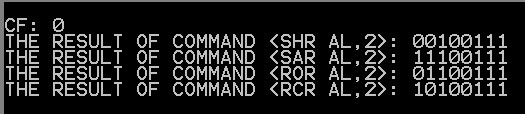
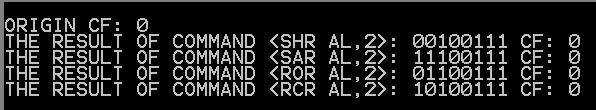
Site update at 2020-04-21 11:55:02

Changed region(s): [[0.0, 0.1364, 0.9752, 0.9]]

diff --git a/2020/04/20/Shift-Commands/index.html b/2020/04/20/Shift-Commands/index.html
@@ -243,13 +243,13 @@
 <p>图示如下：<br><img src="http://c.biancheng.net/uploads/allimg/190509/4-1Z5091I944551.gif" alt="RCL" title="RCL"><br><strong>带进位的循环右移指令</strong><code>RCR</code>，aka. <em>Rotate Right Through Carry</em>，目的操作数所有数位向右移动，最低位移入<code>CF</code>标志位，而原<code>CF</code>标志位中的数值移到最高位。如果将进位标志位看作目的操作数的最低位，那么<code>RCR</code>实质上相当于<code>ROR</code>指令。比如：</p>
 <figure class="highlight plain"><table><tr><td class="gutter"><pre><span class="line">1</span><br><span class="line">2</span><br><span class="line">3</span><br><span class="line">4</span><br></pre></td><td class="code"><pre><span class="line">MOV AL,91H	; AL&#x3D;10010001B, CF&#x3D;0</span><br><span class="line">MOV CL,1	; CL&#x3D;1</span><br><span class="line">RCL AL,CL	; AL&#x3D;01001000B, CF&#x3D;1</span><br><span class="line">RCL AL,CL	; AL&#x3D;10100100B, CF&#x3D;0</span><br></pre></td></tr></table></figure>
 <p>图示如下：<br><img src="http://c.biancheng.net/uploads/allimg/190509/4-1Z5091J2203T.gif" alt="RCR" title="RCR"></p>
-<h2 id="一个例子"><a href="#一个例子" class="headerlink" title="一个例子"></a>一个例子</h2><p>为了方便比较节省时间，只使用<code>SHR</code>、<code>SAR</code>、<code>ROR</code>和<code>RCR</code>指令将十六进制数<code>9DH</code>向右移动两位(左移同理<sup id="fnref:2"><a href="#fn:2" rel="footnote">2</a></sup>)，并利用<a href="https://callmemengmeng.github.io/2020/04/11/%E5%AD%97%E9%95%BF%E6%95%B0%E6%8D%AE%E7%9A%84%E4%BA%8C%E5%85%AB%E8%BF%9B%E5%88%B6%E8%BD%AC%E6%8D%A2%E4%B8%8E%E8%BE%93%E5%87%BA/">前文</a>提到的各位输出方法，将结果显示在屏幕上。</p>
+<h2 id="一个例子"><a href="#一个例子" class="headerlink" title="一个例子"></a>一个例子</h2><p>为了方便比较节省时间，只使用<code>SHR</code>、<code>SAR</code>、<code>ROR</code>和<code>RCR</code>指令将十六进制数<code>9DH</code>向右移动两位(左移同理<sup id="fnref:2"><a href="#fn:2" rel="footnote">2</a></sup>)，使用<code>LAHF</code>指令将标志位寄存器的低8位存入<code>AH</code>中，并利用<a href="https://callmemengmeng.github.io/2020/04/11/%E5%AD%97%E9%95%BF%E6%95%B0%E6%8D%AE%E7%9A%84%E4%BA%8C%E5%85%AB%E8%BF%9B%E5%88%B6%E8%BD%AC%E6%8D%A2%E4%B8%8E%E8%BE%93%E5%87%BA/">前文</a>提到的各位输出方法，将结果(<code>AL</code>和<code>CF</code>的值)显示在屏幕上。</p>
 <h3 id="移位分析"><a href="#移位分析" class="headerlink" title="移位分析"></a>移位分析</h3><figure class="highlight plain"><table><tr><td class="gutter"><pre><span class="line">1</span><br><span class="line">2</span><br><span class="line">3</span><br><span class="line">4</span><br><span class="line">5</span><br></pre></td><td class="code"><pre><span class="line">MOV AL,9DH	; AL &#x3D;  10011101B, CF&#x3D;0 </span><br><span class="line">SHR AL,2	; AL -&gt; 01001110B, CF&#x3D;1 -&gt; 00100111B, CF&#x3D;0</span><br><span class="line">SAR AL,2	; AL -&gt; 11001110B, CF&#x3D;1 -&gt; 11100111B, CF&#x3D;0</span><br><span class="line">ROR AL,2	; AL -&gt; 11001110B, CF&#x3D;1 -&gt; 01100111B, CF&#x3D;0</span><br><span class="line">RCR AL,2	; AL -&gt; 01001110B, CF&#x3D;1 -&gt; 10100111B, CF&#x3D;0</span><br></pre></td></tr></table></figure>
 
-<h3 id="运行结果"><a href="#运行结果" class="headerlink" title="运行结果"></a>运行结果</h3><p><code>9DH</code>=<code>10011101B</code>，分别使用<code>SHR</code>、<code>SAR</code>、<code>ROR</code>和<code>RCR</code>指令移动两位后，结果如下：<br><img src="/2020/04/20/Shift-Commands/RESULTS.jpg" alt="RESULTS" title="Results"></p>
+<h3 id="运行结果"><a href="#运行结果" class="headerlink" title="运行结果"></a>运行结果</h3><p><code>9DH</code>=<code>10011101B</code>，分别使用<code>SHR</code>、<code>SAR</code>、<code>ROR</code>和<code>RCR</code>指令移动两位后，结果如下：<br><img src="/2020/04/20/Shift-Commands/RESULTS.JPG" alt="RESULTS" title="Results"></p>
 <h3 id="代码"><a href="#代码" class="headerlink" title="代码"></a>代码</h3><details>
 <summary>点击查看代码</summary>
-<figure class="highlight plain"><table><tr><td class="gutter"><pre><span class="line">1</span><br><span class="line">2</span><br><span class="line">3</span><br><span class="line">4</span><br><span class="line">5</span><br><span class="line">6</span><br><span class="line">7</span><br><span class="line">8</span><br><span class="line">9</span><br><span class="line">10</span><br><span class="line">11</span><br><span class="line">12</span><br><span class="line">13</span><br><span class="line">14</span><br><span class="line">15</span><br><span class="line">16</span><br><span class="line">17</span><br><span class="line">18</span><br><span class="line">19</span><br><span class="line">20</span><br><span class="line">21</span><br><span class="line">22</span><br><span class="line">23</span><br><span class="line">24</span><br><span class="line">25</span><br><span class="line">26</span><br><span class="line">27</span><br><span class="line">28</span><br><span class="line">29</span><br><span class="line">30</span><br><span class="line">31</span><br><span class="line">32</span><br><span class="line">33</span><br><span class="line">34</span><br><span class="line">35</span><br><span class="line">36</span><br><span class="line">37</span><br><span class="line">38</span><br><span class="line">39</span><br><span class="line">40</span><br><span class="line">41</span><br><span class="line">42</span><br><span class="line">43</span><br><span class="line">44</span><br><span class="line">45</span><br><span class="line">46</span><br><span class="line">47</span><br><span class="line">48</span><br><span class="line">49</span><br><span class="line">50</span><br><span class="line">51</span><br><span class="line">52</span><br><span class="line">53</span><br><span class="line">54</span><br><span class="line">55</span><br><span class="line">56</span><br><span class="line">57</span><br><span class="line">58</span><br><span class="line">59</span><br><span class="line">60</span><br><span class="line">61</span><br><span class="line">62</span><br><span class="line">63</span><br><span class="line">64</span><br><span class="line">65</span><br><span class="line">66</span><br><span class="line">67</span><br><span class="line">68</span><br><span class="line">69</span><br><span class="line">70</span><br><span class="line">71</span><br><span class="line">72</span><br><span class="line">73</span><br><span class="line">74</span><br><span class="line">75</span><br><span class="line">76</span><br><span class="line">77</span><br><span class="line">78</span><br><span class="line">79</span><br><span class="line">80</span><br><span class="line">81</span><br><span class="line">82</span><br><span class="line">83</span><br><span class="line">84</span><br><span class="line">85</span><br><span class="line">86</span><br><span class="line">87</span><br><span class="line">88</span><br><span class="line">89</span><br><span class="line">90</span><br><span class="line">91</span><br><span class="line">92</span><br><span class="line">93</span><br><span class="line">94</span><br><span class="line">95</span><br><span class="line">96</span><br><span class="line">97</span><br><span class="line">98</span><br><span class="line">99</span><br><span class="line">100</span><br><span class="line">101</span><br></pre></td><td class="code"><pre><span class="line">DATA SEGMENT</span><br><span class="line">    BUFF DB 4 DUP(0)        </span><br><span class="line">    NUMB DB 9DH   </span><br><span class="line">    MES0 DB 0DH,0AH,&#39;THE RESULT OF COMMAND &lt;SHR AL,2&gt;: $&#39;</span><br><span class="line">    MES1 DB 0DH,0AH,&#39;THE RESULT OF COMMAND &lt;SAR AL,2&gt;: $&#39;</span><br><span class="line">    MES2 DB 0DH,0AH,&#39;THE RESULT OF COMMAND &lt;ROR AL,2&gt;: $&#39;</span><br><span class="line">    MES3 DB 0DH,0AH,&#39;THE RESULT OF COMMAND &lt;RCR AL,2&gt;: $&#39;   </span><br><span class="line">    MES4 DB 0DH,0AH,&#39;CF: 0 $&#39;</span><br><span class="line">DATA ENDS      </span><br><span class="line"></span><br><span class="line">STACK SEGMENT PARA STACK &#39;STACK&#39;</span><br><span class="line">    DB 10 DUP(0)</span><br><span class="line">STACK ENDS</span><br><span class="line"></span><br><span class="line">CODE SEGMENT</span><br><span class="line">    ASSUME CS:CODE,DS:DATA</span><br><span class="line">START:</span><br><span class="line">    MOV AX,DATA</span><br><span class="line">    MOV DS,AX</span><br><span class="line">    LEA SI,BUFF </span><br><span class="line">    MOV CL,2        ; SHIFT&#x2F;ROTATE 9DH 2 BITS TO RIGHT</span><br><span class="line">    MOV AL,NUMB   </span><br><span class="line">    </span><br><span class="line">    PUSH AX</span><br><span class="line">    PUSH AX</span><br><span class="line">    PUSH AX </span><br><span class="line">    PUSH AX</span><br><span class="line">           </span><br><span class="line">    POP AX </span><br><span class="line">    SHR AL,CL      ; THE RESULT OF &#39;SHR&#39;</span><br><span class="line">    MOV [SI],AL</span><br><span class="line">    INC SI</span><br><span class="line">    </span><br><span class="line">    POP AX</span><br><span class="line">    SAR AL,CL     ; THE RESULT OF &#39;SAR&#39;</span><br><span class="line">    MOV [SI],AL  </span><br><span class="line">    INC SI     </span><br><span class="line"></span><br><span class="line">    POP AX</span><br><span class="line">    ROR AL,CL     ; THE RESULT OF &#39;ROR&#39;                 </span><br><span class="line">    MOV [SI],AL  </span><br><span class="line">    INC SI </span><br><span class="line">    </span><br><span class="line">    POP AX</span><br><span class="line">    RCR AL,CL     ; THE RESULT OF &#39;RCR&#39;</span><br><span class="line">    MOV [SI],AL  </span><br><span class="line">  </span><br><span class="line">NEXT:</span><br><span class="line">    LEA SI,BUFF   ; CALL THE &#39;DISP&#39; SUBROUTINE TO DISPLAY EVERY BIT OF [SI]</span><br><span class="line">    </span><br><span class="line">    MOV AH,09H</span><br><span class="line">    MOV DX,OFFSET MES4</span><br><span class="line">    INT 21H</span><br><span class="line">    </span><br><span class="line">    MOV AH,09H</span><br><span class="line">    MOV DX,OFFSET MES0</span><br><span class="line">    INT 21H</span><br><span class="line">    CALL DISP </span><br><span class="line">    INC SI</span><br><span class="line">  </span><br><span class="line">    MOV AH,09H</span><br><span class="line">    MOV DX,OFFSET MES1</span><br><span class="line">    INT 21H  </span><br><span class="line">    CALL DISP</span><br><span class="line">    INC SI</span><br><span class="line"></span><br><span class="line">    MOV AH,09H </span><br><span class="line">    MOV DX,OFFSET MES2</span><br><span class="line">    INT 21H</span><br><span class="line">    CALL DISP </span><br><span class="line">    INC SI   </span><br><span class="line">    </span><br><span class="line">    MOV AH,09H</span><br><span class="line">    MOV DX,OFFSET MES3</span><br><span class="line">    INT 21H</span><br><span class="line">    CALL DISP       </span><br><span class="line">    </span><br><span class="line">QUIT:</span><br><span class="line">    MOV AH,4CH</span><br><span class="line">    INT 21H</span><br><span class="line">           </span><br><span class="line">DISP PROC NEAR  </span><br><span class="line">    MOV DH,[SI] </span><br><span class="line">    MOV CX,08H</span><br><span class="line">    MOV AH,02H</span><br><span class="line">AGAIN: </span><br><span class="line">    MOV DL,DH</span><br><span class="line">    AND DL,80H </span><br><span class="line">    PUSH CX </span><br><span class="line">    MOV CL,07H</span><br><span class="line">    SHR DL,CL </span><br><span class="line">    ADD DL,30H </span><br><span class="line">    POP CX</span><br><span class="line">    INT 21H </span><br><span class="line">    SHL DH,1</span><br><span class="line">    LOOP AGAIN</span><br><span class="line">    RET</span><br><span class="line">DISP ENDP</span><br><span class="line">    </span><br><span class="line">CODE ENDS</span><br><span class="line">    END START</span><br></pre></td></tr></table></figure>
+<figure class="highlight plain"><table><tr><td class="gutter"><pre><span class="line">1</span><br><span class="line">2</span><br><span class="line">3</span><br><span class="line">4</span><br><span class="line">5</span><br><span class="line">6</span><br><span class="line">7</span><br><span class="line">8</span><br><span class="line">9</span><br><span class="line">10</span><br><span class="line">11</span><br><span class="line">12</span><br><span class="line">13</span><br><span class="line">14</span><br><span class="line">15</span><br><span class="line">16</span><br><span class="line">17</span><br><span class="line">18</span><br><span class="line">19</span><br><span class="line">20</span><br><span class="line">21</span><br><span class="line">22</span><br><span class="line">23</span><br><span class="line">24</span><br><span class="line">25</span><br><span class="line">26</span><br><span class="line">27</span><br><span class="line">28</span><br><span class="line">29</span><br><span class="line">30</span><br><span class="line">31</span><br><span class="line">32</span><br><span class="line">33</span><br><span class="line">34</span><br><span class="line">35</span><br><span class="line">36</span><br><span class="line">37</span><br><span class="line">38</span><br><span class="line">39</span><br><span class="line">40</span><br><span class="line">41</span><br><span class="line">42</span><br><span class="line">43</span><br><span class="line">44</span><br><span class="line">45</span><br><span class="line">46</span><br><span class="line">47</span><br><span class="line">48</span><br><span class="line">49</span><br><span class="line">50</span><br><span class="line">51</span><br><span class="line">52</span><br><span class="line">53</span><br><span class="line">54</span><br><span class="line">55</span><br><span class="line">56</span><br><span class="line">57</span><br><span class="line">58</span><br><span class="line">59</span><br><span class="line">60</span><br><span class="line">61</span><br><span class="line">62</span><br><span class="line">63</span><br><span class="line">64</span><br><span class="line">65</span><br><span class="line">66</span><br><span class="line">67</span><br><span class="line">68</span><br><span class="line">69</span><br><span class="line">70</span><br><span class="line">71</span><br><span class="line">72</span><br><span class="line">73</span><br><span class="line">74</span><br><span class="line">75</span><br><span class="line">76</span><br><span class="line">77</span><br><span class="line">78</span><br><span class="line">79</span><br><span class="line">80</span><br><span class="line">81</span><br><span class="line">82</span><br><span class="line">83</span><br><span class="line">84</span><br><span class="line">85</span><br><span class="line">86</span><br><span class="line">87</span><br><span class="line">88</span><br><span class="line">89</span><br><span class="line">90</span><br><span class="line">91</span><br><span class="line">92</span><br><span class="line">93</span><br><span class="line">94</span><br><span class="line">95</span><br><span class="line">96</span><br><span class="line">97</span><br><span class="line">98</span><br><span class="line">99</span><br><span class="line">100</span><br><span class="line">101</span><br><span class="line">102</span><br><span class="line">103</span><br><span class="line">104</span><br><span class="line">105</span><br><span class="line">106</span><br><span class="line">107</span><br><span class="line">108</span><br><span class="line">109</span><br><span class="line">110</span><br><span class="line">111</span><br><span class="line">112</span><br><span class="line">113</span><br><span class="line">114</span><br><span class="line">115</span><br><span class="line">116</span><br><span class="line">117</span><br><span class="line">118</span><br><span class="line">119</span><br><span class="line">120</span><br><span class="line">121</span><br><span class="line">122</span><br><span class="line">123</span><br><span class="line">124</span><br><span class="line">125</span><br><span class="line">126</span><br><span class="line">127</span><br><span class="line">128</span><br><span class="line">129</span><br><span class="line">130</span><br><span class="line">131</span><br><span class="line">132</span><br><span class="line">133</span><br><span class="line">134</span><br><span class="line">135</span><br><span class="line">136</span><br></pre></td><td class="code"><pre><span class="line">DATA SEGMENT</span><br><span class="line">    BUFF DB 4 DUP(0)  </span><br><span class="line">    FLAG DB 4 DUP(1)      </span><br><span class="line">    NUMB DB 9DH   </span><br><span class="line">    MES0 DB 0DH,0AH,&#39;THE RESULT OF COMMAND &lt;SHR AL,2&gt;: $&#39;</span><br><span class="line">    MES1 DB 0DH,0AH,&#39;THE RESULT OF COMMAND &lt;SAR AL,2&gt;: $&#39;</span><br><span class="line">    MES2 DB 0DH,0AH,&#39;THE RESULT OF COMMAND &lt;ROR AL,2&gt;: $&#39;</span><br><span class="line">    MES3 DB 0DH,0AH,&#39;THE RESULT OF COMMAND &lt;RCR AL,2&gt;: $&#39;   </span><br><span class="line">    MES4 DB 0DH,0AH,&#39;ORIGIN CF: 0 $&#39;        </span><br><span class="line">    MES5 DB &#39; CF: $&#39;</span><br><span class="line">DATA ENDS      </span><br><span class="line"></span><br><span class="line">STACK SEGMENT PARA STACK &#39;STACK&#39;</span><br><span class="line">    DB 10 DUP(0)</span><br><span class="line">STACK ENDS</span><br><span class="line"></span><br><span class="line">CODE SEGMENT</span><br><span class="line">    ASSUME CS:CODE,DS:DATA</span><br><span class="line">START:</span><br><span class="line">    MOV AX,DATA</span><br><span class="line">    MOV DS,AX   </span><br><span class="line">    MOV AX,0</span><br><span class="line">    LEA SI,BUFF  </span><br><span class="line">    LEA DI,FLAG</span><br><span class="line">    MOV CL,2        ; SHIFT&#x2F;ROTATE 9DH 2 BITS TO RIGHT</span><br><span class="line">    MOV AL,NUMB   </span><br><span class="line">    </span><br><span class="line">    PUSH AX</span><br><span class="line">    PUSH AX</span><br><span class="line">    PUSH AX </span><br><span class="line">    PUSH AX</span><br><span class="line">           </span><br><span class="line">    POP AX </span><br><span class="line">    SHR AL,CL      ; THE RESULT OF &#39;SHR&#39;</span><br><span class="line">    MOV [SI],AL</span><br><span class="line">    LAHF</span><br><span class="line">    MOV [DI],AH</span><br><span class="line">    INC SI  </span><br><span class="line">    INC DI</span><br><span class="line">    </span><br><span class="line">    POP AX</span><br><span class="line">    SAR AL,CL     ; THE RESULT OF &#39;SAR&#39;</span><br><span class="line">    MOV [SI],AL   </span><br><span class="line">    LAHF</span><br><span class="line">    MOV [DI],AH</span><br><span class="line">    INC SI </span><br><span class="line">    INC DI    </span><br><span class="line"></span><br><span class="line">    POP AX</span><br><span class="line">    ROR AL,CL     ; THE RESULT OF &#39;ROR&#39;                 </span><br><span class="line">    MOV [SI],AL </span><br><span class="line">    LAHF</span><br><span class="line">    MOV [DI],AH </span><br><span class="line">    INC SI</span><br><span class="line">    INC DI </span><br><span class="line">    </span><br><span class="line">    POP AX</span><br><span class="line">    RCR AL,CL     ; THE RESULT OF &#39;RCR&#39;</span><br><span class="line">    MOV [SI],AL </span><br><span class="line">    LAHF</span><br><span class="line">    MOV [DI],AH  </span><br><span class="line">  </span><br><span class="line">NEXT:</span><br><span class="line">    LEA SI,BUFF   ; CALL THE &#39;DISP&#39; SUBROUTINE TO DISPLAY EVERY BIT OF [SI]</span><br><span class="line">    LEA DI,FLAG</span><br><span class="line">    MOV AH,09H</span><br><span class="line">    MOV DX,OFFSET MES4</span><br><span class="line">    INT 21H</span><br><span class="line">    </span><br><span class="line">    MOV AH,09H</span><br><span class="line">    MOV DX,OFFSET MES0</span><br><span class="line">    INT 21H</span><br><span class="line">    CALL DISP   </span><br><span class="line">    CALL DISP_CF</span><br><span class="line">    INC SI    </span><br><span class="line">    INC DI</span><br><span class="line">  </span><br><span class="line">    MOV AH,09H</span><br><span class="line">    MOV DX,OFFSET MES1</span><br><span class="line">    INT 21H  </span><br><span class="line">    CALL DISP  </span><br><span class="line">    CALL DISP_CF</span><br><span class="line">    INC SI      </span><br><span class="line">    INC DI</span><br><span class="line"></span><br><span class="line">    MOV AH,09H </span><br><span class="line">    MOV DX,OFFSET MES2</span><br><span class="line">    INT 21H</span><br><span class="line">    CALL DISP  </span><br><span class="line">    CALL DISP_CF</span><br><span class="line">    INC SI      </span><br><span class="line">    INC DI</span><br><span class="line">    </span><br><span class="line">    MOV AH,09H</span><br><span class="line">    MOV DX,OFFSET MES3</span><br><span class="line">    INT 21H</span><br><span class="line">    CALL DISP   </span><br><span class="line">    CALL DISP_CF    </span><br><span class="line">    </span><br><span class="line">QUIT:</span><br><span class="line">    MOV AH,4CH</span><br><span class="line">    INT 21H</span><br><span class="line">           </span><br><span class="line">DISP PROC NEAR  </span><br><span class="line">    MOV DH,[SI] </span><br><span class="line">    MOV CX,08H</span><br><span class="line">    MOV AH,02H</span><br><span class="line">AGAIN: </span><br><span class="line">    MOV DL,DH</span><br><span class="line">    AND DL,80H </span><br><span class="line">    PUSH CX </span><br><span class="line">    MOV CL,07H</span><br><span class="line">    SHR DL,CL </span><br><span class="line">    ADD DL,30H </span><br><span class="line">    POP CX</span><br><span class="line">    INT 21H </span><br><span class="line">    SHL DH,1</span><br><span class="line">    LOOP AGAIN</span><br><span class="line">    RET</span><br><span class="line">DISP ENDP</span><br><span class="line">    </span><br><span class="line">DISP_CF PROC NEAR  </span><br><span class="line">    MOV AH,09H</span><br><span class="line">    MOV DX,OFFSET MES5</span><br><span class="line">    INT 21H  </span><br><span class="line">    MOV DL,[DI]  </span><br><span class="line">    AND DL,01H</span><br><span class="line">    ADD DL,30H</span><br><span class="line">    MOV AH,02H</span><br><span class="line">    INT 21H</span><br><span class="line">    RET</span><br><span class="line">DISP_CF ENDP</span><br><span class="line">    </span><br><span class="line"> </span><br><span class="line">CODE ENDS</span><br><span class="line">    END START</span><br></pre></td></tr></table></figure>
 </details>
 
 <div id="footnotes"><hr><div id="footnotelist"><ol style="list-style:none; padding-left: 0;"><li id="fn:1"><span style="display: inline-block; vertical-align: top; padding-right: 10px;">1.</span><span style="display: inline-block; vertical-align: top;">原理示意图出自<a href="http://c.biancheng.net/view/3589.html" target="_blank" rel="noopener">此处</a>。</span><a href="#fnref:1" rev="footnote"> ↩</a></li><li id="fn:2"><span style="display: inline-block; vertical-align: top; padding-right: 10px;">2.</span><span style="display: inline-block; vertical-align: top;">其实是本小子懒癌发作懒得再推左移的情况。</span><a href="#fnref:2" rev="footnote"> ↩</a></li></ol></div></div>

diff --git a/category/index.html b/category/index.html
@@ -142,7 +142,7 @@
                                 
                                     <article class="archive-item">
                                         <a class="archive-item-link"
-                                           href="/2014/05/18/2014-diary1/">大侠老矣，尚能饭否？</a>
+                                           href="/2014/05/17/2014-diary0/">为黑而黑咩？</a>
                                     </article>
                                 
                             
@@ -150,7 +150,7 @@
                                 
                                     <article class="archive-item">
                                         <a class="archive-item-link"
-                                           href="/2014/05/17/2014-diary0/">为黑而黑咩？</a>
+                                           href="/2014/05/18/2014-diary1/">大侠老矣，尚能饭否？</a>
                                     </article>
                                 
                             
@@ -297,7 +297,7 @@
                                 
                                     <article class="archive-item">
                                         <a class="archive-item-link"
-                                           href="/2019/08/11/Element-cycle-tablee/">中国和日本的元素周期表</a>
+                                           href="/2020/02/01/Electromagnetic-Wave-Polarization/">Electromagnetic Wave Polarization</a>
                                     </article>
                                 
                             
@@ -305,7 +305,7 @@
                                 
                                     <article class="archive-item">
                                         <a class="archive-item-link"
-                                           href="/2020/02/01/Electromagnetic-Wave-Polarization/">Electromagnetic Wave Polarization</a>
+                                           href="/2019/08/11/Element-cycle-tablee/">中国和日本的元素周期表</a>
                                     </article>
                                 
                             
